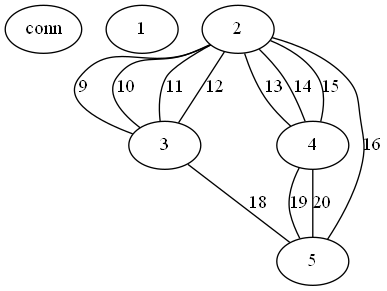
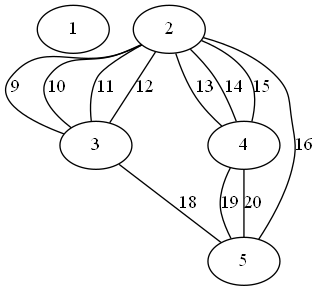
дз 3

diff --git a/dz3/dz3.c b/dz3/dz3.c
@@ -25,14 +25,12 @@ int main()
     }
   }
   i++;reb--;
-  char u;
+  char u, flags =0;
   f2 = fopen("res.gv", "w");
   if(reb > ((i - 1) * (i - 2) / 2)){
-    fprintf(f2, "graph conn {\n");
-    fprintf(f2, "conn; \n");
-  }else{
     fprintf(f2, "graph no_conn {\n");
-    fprintf(f2, "no_conn; \n");
+  }else{
+    fprintf(f2, "graph conn {\n");
   }
   for(int d = 0;d<i;d++){
     fprintf(f2, "%d\n", d+1); 
@@ -57,11 +55,19 @@ int main()
         }
       }
     }
+    if(u == -1){
+      flags = 1;
+    }
     fprintf(f2, "\n");
     printf("\n");
   }
   fprintf(f2, "}");
   fclose(f2);
+  if(flags == 1){
+    printf("\n No");
+  }else{
+    printf("yes");
+  }
   system("dot res.gv -Tpng -o g.png");
   system("g.png");
 }
